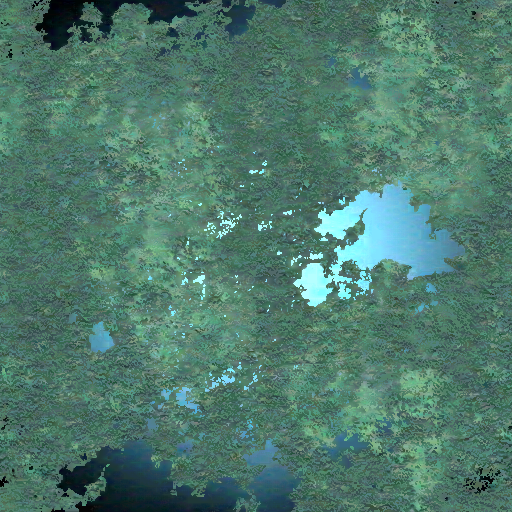
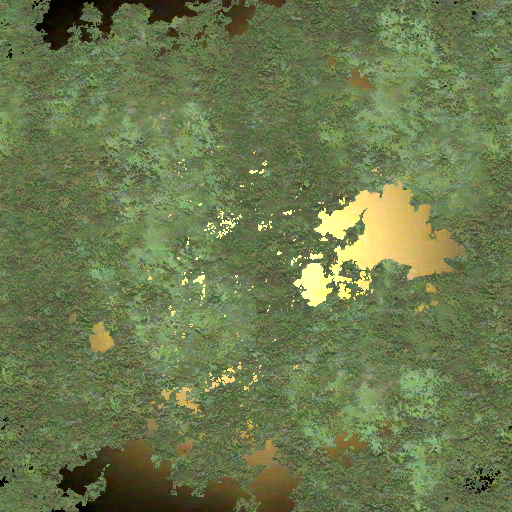
fix: decode textures with the PowerVR reference decoder (red and blue were swapped)

diff --git a/tools/pvr_decode.cpp b/tools/pvr_decode.cpp
@@ -1,0 +1,83 @@
+// Decodes a PVR v2 container holding a PVRTC 2bpp/4bpp texture to raw RGBA.
+//
+// Uses PowerVR's reference decoder (PVRTDecompress.cpp, MIT-licensed, taken
+// from the touchHLE source tree). Build and run via tools/decode_textures.py.
+//
+// Usage: pvr_decode <in.pvr> <out.rgba>
+//        pvr_decode --raw <w> <h> <bpp> <offset> <in> <out.rgba>   (headerless data)
+// Prints "<width> <height> <flipped>" on stdout.
+
+#include <cstdint>
+#include <cstdio>
+#include <cstdlib>
+#include <string_view>
+#include <vector>
+
+#include "PVRTDecompress.h"
+
+struct PvrV2Header {
+  uint32_t header_size, height, width, mipmaps, flags, data_length, bpp;
+  uint32_t mask_r, mask_g, mask_b, mask_a, tag, surfaces;
+};
+
+enum { FMT_PVRTC2 = 0x18, FMT_PVRTC4 = 0x19, FLAG_VERT_FLIP = 0x10000 };
+
+static int write_decoded(const std::vector<uint8_t> &data, bool two_bit, uint32_t w, uint32_t h,
+                         bool flipped, const char *out_path) {
+  std::vector<uint8_t> rgba(size_t(w) * h * 4);
+  pvr::PVRTDecompressPVRTC(data.data(), two_bit, w, h, rgba.data());
+  FILE *out = std::fopen(out_path, "wb");
+  if (!out) return 1;
+  std::fwrite(rgba.data(), 1, rgba.size(), out);
+  std::fclose(out);
+  std::printf("%u %u %d\n", w, h, flipped ? 1 : 0);
+  return 0;
+}
+
+static int decode_raw(int argc, char **argv) {
+  if (argc != 8) {
+    std::fprintf(stderr, "usage: pvr_decode --raw <w> <h> <bpp> <offset> <in> <out.rgba>\n");
+    return 2;
+  }
+  uint32_t w = std::strtoul(argv[2], nullptr, 10);
+  uint32_t h = std::strtoul(argv[3], nullptr, 10);
+  uint32_t bpp = std::strtoul(argv[4], nullptr, 10);
+  long offset = std::strtol(argv[5], nullptr, 10);
+  if (bpp != 2 && bpp != 4) {
+    std::fprintf(stderr, "bpp must be 2 or 4\n");
+    return 1;
+  }
+  FILE *in = std::fopen(argv[6], "rb");
+  if (!in || std::fseek(in, offset, SEEK_SET) != 0) return 1;
+  std::vector<uint8_t> data(size_t(w) * h * bpp / 8);
+  if (std::fread(data.data(), 1, data.size(), in) != data.size()) {
+    std::fprintf(stderr, "short read at offset %ld\n", offset);
+    return 1;
+  }
+  std::fclose(in);
+  return write_decoded(data, bpp == 2, w, h, false, argv[7]);
+}
+
+int main(int argc, char **argv) {
+  if (argc >= 2 && std::string_view(argv[1]) == "--raw") return decode_raw(argc, argv);
+  if (argc != 3) {
+    std::fprintf(stderr, "usage: pvr_decode <in.pvr> <out.rgba>\n");
+    return 2;
+  }
+  FILE *in = std::fopen(argv[1], "rb");
+  if (!in) return 1;
+  PvrV2Header h;
+  if (std::fread(&h, sizeof h, 1, in) != 1 || h.header_size != sizeof h) {
+    std::fprintf(stderr, "not a PVR v2 file\n");
+    return 1;
+  }
+  uint32_t fmt = h.flags & 0xff;
+  if (fmt != FMT_PVRTC2 && fmt != FMT_PVRTC4) {
+    std::fprintf(stderr, "unsupported pixel format 0x%x\n", fmt);
+    return 1;
+  }
+  std::vector<uint8_t> data(h.data_length);
+  if (std::fread(data.data(), 1, data.size(), in) != data.size()) return 1;
+  std::fclose(in);
+  return write_decoded(data, fmt == FMT_PVRTC2, h.width, h.height, h.flags & FLAG_VERT_FLIP, argv[2]);
+}

diff --git a/tools/decode_textures.py b/tools/decode_textures.py
@@ -1,0 +1,65 @@
+#!/usr/bin/env python3
+"""Decode the original PVRTC textures (original/app/*.pvr) to PNG.
+
+Builds tools/pvr_decode.cpp against PowerVR's reference decoder the first
+time it runs. The decoder source is expected at --pvrt-dir (default: the
+touchHLE checkout's vendor/PVRTDecompress).
+
+Usage: tools/decode_textures.py [--pvrt-dir DIR] [--out DIR]
+Default output: original/textures.
+
+History: the first decode of these files (with the texture2ddecoder Python
+package) had red and blue swapped; this decoder is the reference one and
+its output matches that decode exactly once the channels are swapped back.
+"""
+
+import argparse
+import subprocess
+import sys
+from pathlib import Path
+
+from PIL import Image
+
+ROOT = Path(__file__).resolve().parent.parent
+SRC = ROOT / "original" / "app"
+
+
+def build(pvrt_dir: Path, build_dir: Path) -> Path:
+    exe = build_dir / "pvr_decode"
+    cpp = ROOT / "tools" / "pvr_decode.cpp"
+    dec = pvrt_dir / "PVRTDecompress.cpp"
+    if exe.exists() and exe.stat().st_mtime > max(cpp.stat().st_mtime, dec.stat().st_mtime):
+        return exe
+    build_dir.mkdir(parents=True, exist_ok=True)
+    subprocess.run(
+        ["clang++", "-O2", "-std=c++17", "-I", str(pvrt_dir), str(cpp), str(dec), "-o", str(exe)],
+        check=True,
+    )
+    return exe
+
+
+def main():
+    ap = argparse.ArgumentParser()
+    ap.add_argument("--pvrt-dir", default=str(Path.home() / "tools/touchHLE-src/vendor/PVRTDecompress"))
+    ap.add_argument("--out", default=str(ROOT / "original" / "textures"))
+    ap.add_argument("--build-dir", default=str(ROOT / "target" / "pvr_decode"))
+    args = ap.parse_args()
+
+    exe = build(Path(args.pvrt_dir), Path(args.build_dir))
+    out = Path(args.out)
+    out.mkdir(parents=True, exist_ok=True)
+    raw = Path(args.build_dir) / "tmp.rgba"
+    for pvr in sorted(SRC.glob("*.pvr")):
+        info = subprocess.run([str(exe), str(pvr), str(raw)], check=True, capture_output=True, text=True).stdout
+        w, h, flipped = (int(v) for v in info.split())
+        im = Image.frombytes("RGBA", (w, h), raw.read_bytes())
+        if flipped:
+            im = im.transpose(Image.FLIP_TOP_BOTTOM)
+        name = pvr.name.split(".")[0] + ".png"
+        im.save(out / name)
+        print(f"{name}: {w}x{h} flipped={flipped}")
+    raw.unlink(missing_ok=True)
+
+
+if __name__ == "__main__":
+    sys.exit(main())
